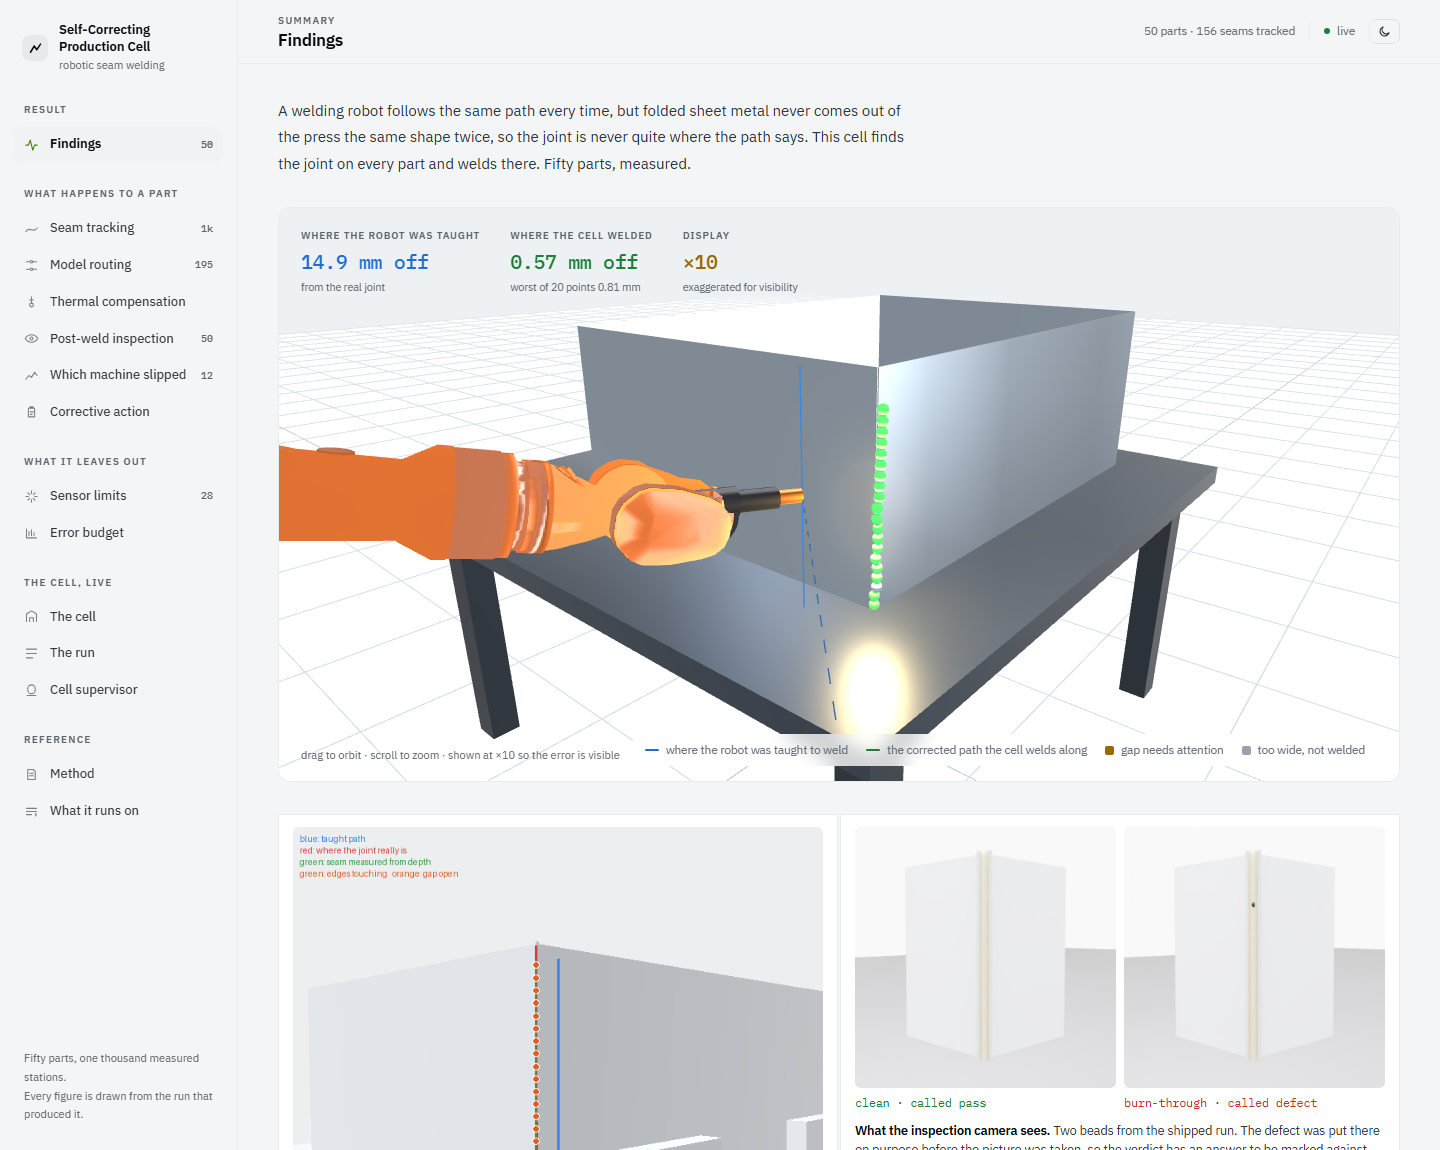
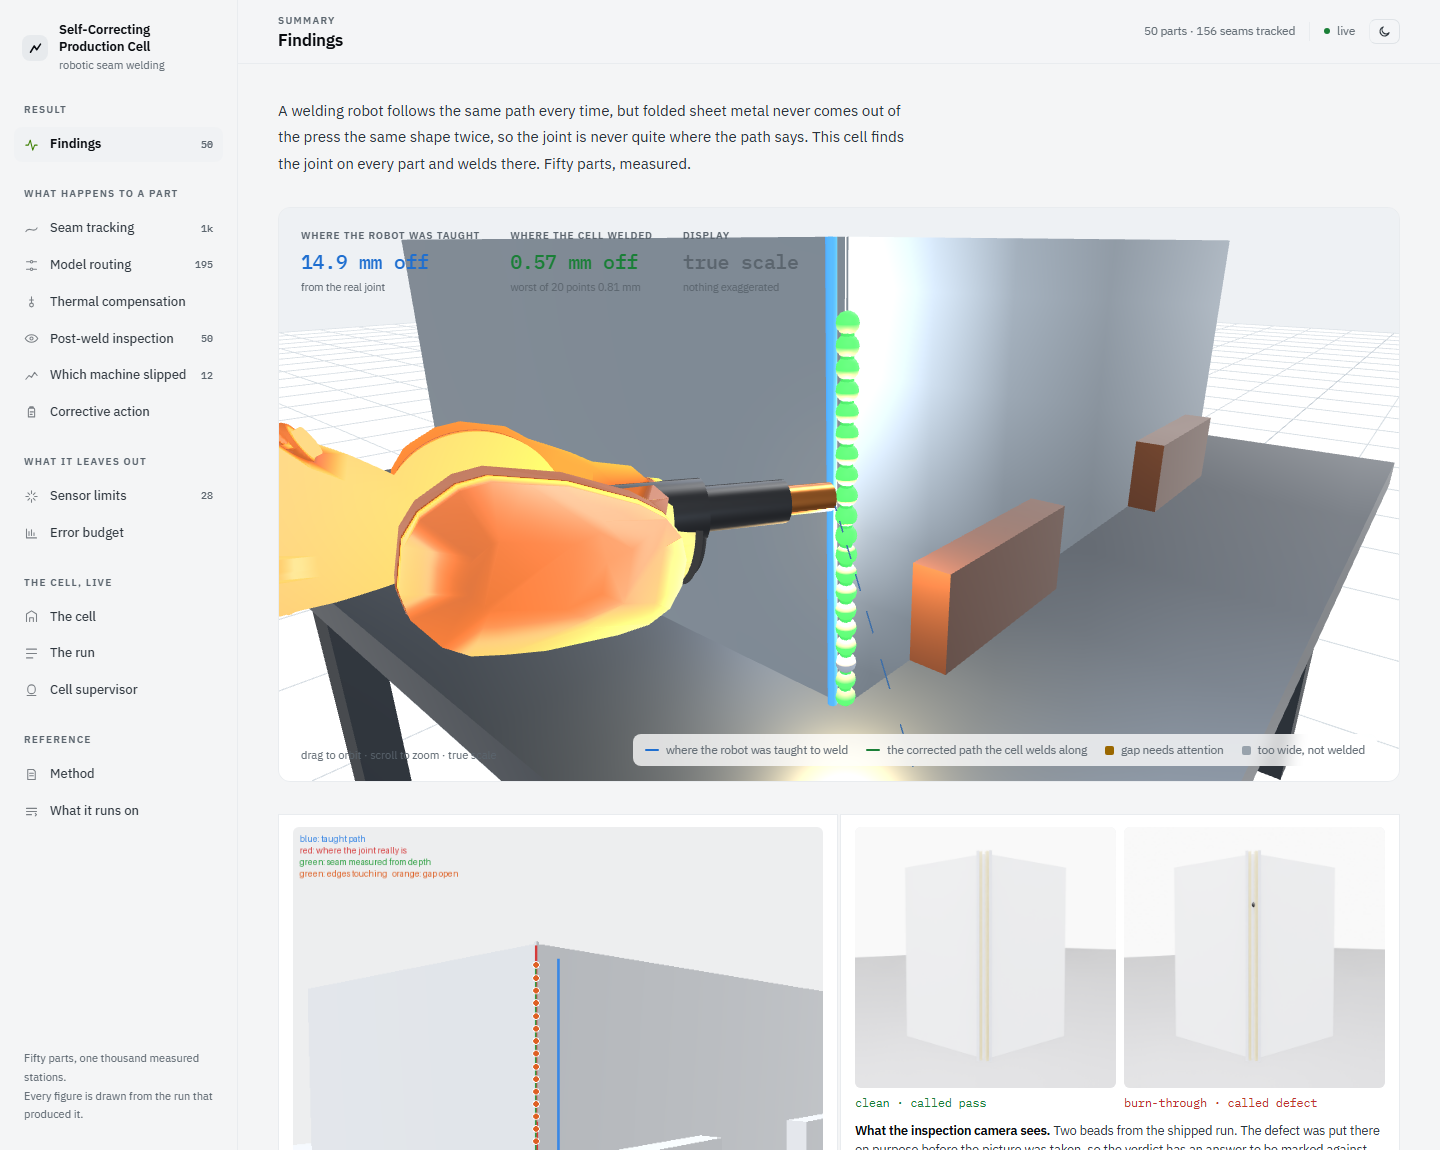
Put the part where it really sat, and exaggerate nothing but the bow
Asked whether every model in the 3D view was misplaced or only the tray. The
honest answer was the tray, and only because of what I had done to it: the
display factor of ten was applied to the part's offset from its fixture, so a
30 mm miss put the tray 300 mm off its mark, half off the table and sitting on
top of the two locating pads. No fixture allows that, the pads would stop it,
and anyone who has stood at one sees it in a second.

The base layout was right all along and is checked here rather than assumed:
the tray's welded corner at nominal is (3.95 + 0.45, -0.60), which is the
nominal joint from the geometry; the two locating pads sit at x 4.41 to 4.46,
outside the tray's +x face with 8 mm of clearance, 260 mm inboard from the
corner along the side, so they bear on that face and constrain x only. The
measured offsets are a few millimetres in x and tens along y, which is a part
sliding along the pads that locate it. That is a physically coherent picture,
and it is the one shown now.

The tray sits at its real offset. The taught path stands at the nominal joint,
drawn as a tube rather than a WebGL line, which is one pixel wide whatever
linewidth says and read as a gridline beside the seam's spheres. The camera
frames the corner from 0.69 m, close enough that fifteen millimetres is two
separate paths and far enough that the whole 450 mm seam still fits. The
display factor now exaggerates the bow only, the part of a millimetre by which
[…]

Changed region(s): [[0.1875, 0.1826, 0.9688, 0.7]]

diff --git a/dashboard/static/cell3d.js b/dashboard/static/cell3d.js
@@ -509,38 +509,55 @@ export class Cell3D {
     // anything was drawn and left the picture showing a 0.4 mm bow beside a chip
     // that said 14.9 mm. The line has to stand where the robot would have gone.
     const nom = new THREE.Vector3(this.geometry.seam.x_m, this.geometry.seam.y_m, 0);
-    const taught = new THREE.Line(
-      new THREE.BufferGeometry().setFromPoints([
-        new THREE.Vector3(nom.x, nom.y, zBottom),
-        new THREE.Vector3(nom.x, nom.y, zTop),
-      ]),
-      new THREE.LineBasicMaterial({ color: COLOUR.taught, linewidth: 2 })
+    // Drawn as a tube, not a line: WebGL lines are one pixel wide whatever the
+    // linewidth says, and a hairline beside the seam's spheres reads as a
+    // gridline. Two paths of equal weight, a known distance apart, is the point.
+    const taught = new THREE.Mesh(
+      new THREE.TubeGeometry(
+        new THREE.LineCurve3(
+          new THREE.Vector3(nom.x, nom.y, zBottom),
+          new THREE.Vector3(nom.x, nom.y, zTop)),
+        1, 0.005, 8, false),
+      new THREE.MeshStandardMaterial({
+        color: COLOUR.taught, emissive: COLOUR.taught, emissiveIntensity: 0.9,
+        metalness: 0.2, roughness: 0.5,
+      })
     );
     this.seamGroup.add(taught);
 
-    // The measured path, with the whole gap from the taught line multiplied: the
-    // offset of the part and the bow along it together, so what is exaggerated is
-    // exactly the miss the chip quotes. Tens of millimetres on a metre of tray are
-    // hard to read at a workcell's scale, so the factor is always shown on the
-    // control, because an exaggerated picture that does not say so is a lie.
+        // The measured path, drawn where it was measured. The offset from the taught
+    // line is shown at true scale, always: an earlier version multiplied it by
+    // the display factor, which at x10 put the part 300 mm off its fixture, half
+    // off the table and through the locating pads. No fixture allows that, and
+    // anyone who has stood at one sees it in a second. Fifteen to thirty
+    // millimetres between two lines is plain to see once the camera is close.
+    //
+    // What the factor may exaggerate is the bow: how far each point strays from
+    // the straight line between the seam's own measured ends. That is a fraction
+    // of a millimetre over half a metre and invisible at any framing, and the
+    // control always shows the factor, because an exaggerated picture that does
+    // not say so is a lie.
+    const a = pts[0], b = pts[pts.length - 1];
     const k = this.exaggeration;
-    const shown = pts.map((v) => new THREE.Vector3(
-      nom.x + (v.x - nom.x) * k,
-      nom.y + (v.y - nom.y) * k,
-      v.z
-    ));
+    const shown = pts.map((v, i) => {
+      const t = along[i] / Math.max(1e-6, along[along.length - 1]);
+      const straight = new THREE.Vector3().lerpVectors(a, b, t);
+      return new THREE.Vector3(
+        straight.x + (v.x - straight.x) * k,
+        straight.y + (v.y - straight.y) * k,
+        v.z
+      );
+    });
 
-    // The part itself sits where its seam was found, not where the fixture
-    // expected it. Move the tray with the seam so the picture is of a part off
-    // its mark, and remember where to point the camera so both lines stay in
-    // frame.
-    const a = pts[0];
+    // The part sits where its seam was found, at true scale, so the picture is
+    // of a part a few millimetres off its mark, sliding along the pads that
+    // locate it. The camera aims between the taught line and the real corner.
     if (this.trayGroup) {
-      this.trayGroup.position.set((a.x - nom.x) * k, (a.y - nom.y) * k, 0);
+      this.trayGroup.position.set(a.x - nom.x, a.y - nom.y, 0);
     }
     this.seamFocus = new THREE.Vector3(
-      (nom.x + shown[0].x) / 2, (nom.y + shown[0].y) / 2, (zBottom + zTop) / 2);
-    this.seamGap = Math.hypot(shown[0].x - nom.x, shown[0].y - nom.y);
+      (nom.x + a.x) / 2, (nom.y + a.y) / 2, (zBottom + zTop) / 2);
+    this.seamGap = Math.hypot(a.x - nom.x, a.y - nom.y);
 
     const curve = new THREE.CatmullRomCurve3(shown);
     const tube = new THREE.Mesh(
@@ -607,12 +624,11 @@ export class Cell3D {
     const g = this.geometry;
     if (!g) return;
     const s = g.seam, mid = (s.bottom_z_m + s.top_z_m) / 2;
-    // Aim between the taught line and the seam as shown, and stand back a little
-    // further the wider that gap is, so an exaggerated miss does not leave one of
-    // the two lines out of the picture.
+        // Aim between the taught line and the real corner, close enough that a gap of
+    // fifteen millimetres reads as two separate lines. At this distance the whole
+    // 450 mm seam still fits the frame top to bottom.
     const focus = this.seamFocus ?? new THREE.Vector3(s.x_m, s.y_m, mid);
-    const back = 1 + Math.min(1.6, (this.seamGap ?? 0) * 2.2);
     this.controls.target.copy(focus);
-    this.camera.position.set(focus.x + 0.62 * back, focus.y - 0.74 * back, mid + 0.34 * back);
+    this.camera.position.set(focus.x + 0.42, focus.y - 0.50, mid + 0.22);
   }
 }

diff --git a/dashboard/static/pages/overview.js b/dashboard/static/pages/overview.js
@@ -65,7 +65,7 @@ export function render() {
     <div class="stage brief">
       <canvas id="ov-view"></canvas>
       <div class="overlay-tl" id="ov-chips"></div>
-      <div class="overlay-bl">drag to orbit &middot; scroll to zoom &middot; shown at &times;10 so the error is visible</div>
+      <div class="overlay-bl">drag to orbit &middot; scroll to zoom &middot; true scale</div>
       <div class="overlay-br">
         <div class="glass legend" style="margin:0">
                     <span><i class="line" style="background:var(--series-1)"></i>where the robot was taught to weld</span>
@@ -176,19 +176,18 @@ export async function mount() {
 
 /** The cell in three dimensions, framed on the joint, exaggerated so the miss reads.
 
-  A number says the taught path is 22.8 mm off. A picture of the taught path
+    A number says the taught path is 22.8 mm off. A picture of the taught path
   running beside the real joint says it without a number, which is why this sits
-  at the top of the page rather than in a tile. The exaggeration is on the display
-  and on the legend, so nobody reads the picture as the true scale.
+  at the top of the page rather than in a tile. It is true scale, and says so: an
+  earlier version exaggerated it tenfold and put the part through its own fixture.
 */
 async function viewport(geo) {
   const canvas = V.$("ov-view");
   if (!canvas || !geo) return;
   try {
     const { Cell3D } = await import("../cell3d.js");
-    view = new Cell3D(canvas);
+        view = new Cell3D(canvas);
     view.build(geo);
-    view.setExaggeration(10);
   } catch (err) {
     canvas.insertAdjacentHTML("afterend",
       `<div class="empty">3D view unavailable: ${V.esc(err.message)}</div>`);
@@ -212,7 +211,7 @@ function drawPart() {
     chips.push(glass("Where the cell welded", `${V.fmt(t.error_mm, 2)} mm off`,
       `worst of ${t.stations_measured} points ${V.fmt(t.worst_station_mm, 2)} mm`, "var(--good)"));
   }
-  chips.push(glass("Display", "\u00d710", "exaggerated for visibility", "var(--warning)"));
+    chips.push(glass("Display", "true scale", "nothing exaggerated", "var(--text-muted)"));
   V.$("ov-chips").innerHTML = chips.join("");
 }
 

diff --git a/dashboard/static/pages/cell.js b/dashboard/static/pages/cell.js
@@ -24,7 +24,7 @@ export function render() {
         <button id="v-seam">Seam</button>
         <button id="v-sensor">Sensor</button>
         <button id="v-spin">Spin</button>
-        <button id="v-exag">Exaggerate ×1</button>
+        <button id="v-exag">Exaggerate bow ×1</button>
       </div>
       <div class="overlay-bl">drag to orbit · scroll to zoom</div>
       <div class="overlay-br">
@@ -82,7 +82,7 @@ export async function mount() {
   V.$("v-exag").onclick = () => {
     exaggeration = exaggeration >= 40 ? 1 : (exaggeration === 1 ? 10 : exaggeration * 2);
     view?.setExaggeration(exaggeration);
-    V.$("v-exag").textContent = `Exaggerate ×${exaggeration}`;
+    V.$("v-exag").textContent = `Exaggerate bow ×${exaggeration}`;
     V.$("v-exag").classList.toggle("on", exaggeration > 1);
     draw();
   };
@@ -129,7 +129,7 @@ function chips(slot) {
       s.refused_stations ? "var(--warning)" : "var(--good)"));
   }
   if (exaggeration > 1) {
-    cards.push(glass("Display", `×${exaggeration}`, "exaggerated for visibility", "var(--warning)"));
+    cards.push(glass("Display", `bow ×${exaggeration}`, "only the curve is exaggerated; the offset is true scale", "var(--warning)"));
   }
   V.$("cell-chips").innerHTML = cards.join("");
 }
